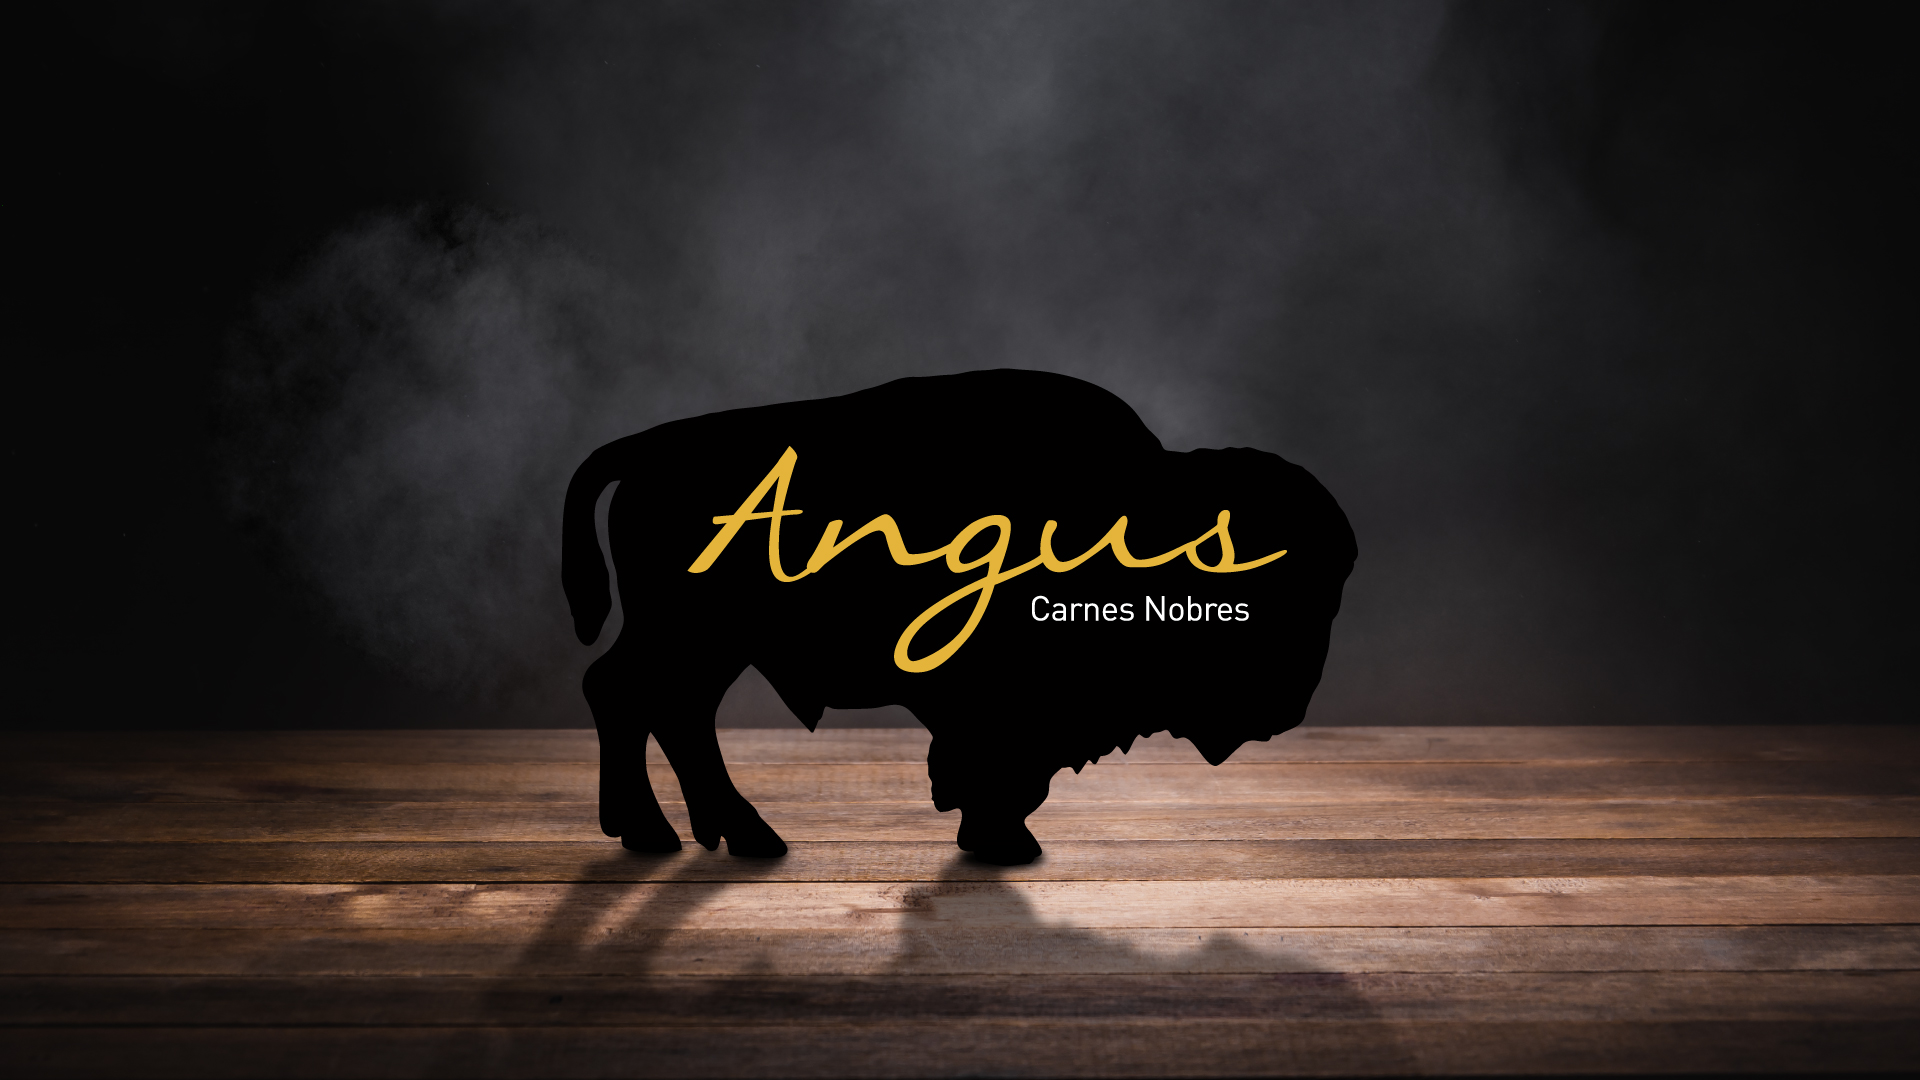
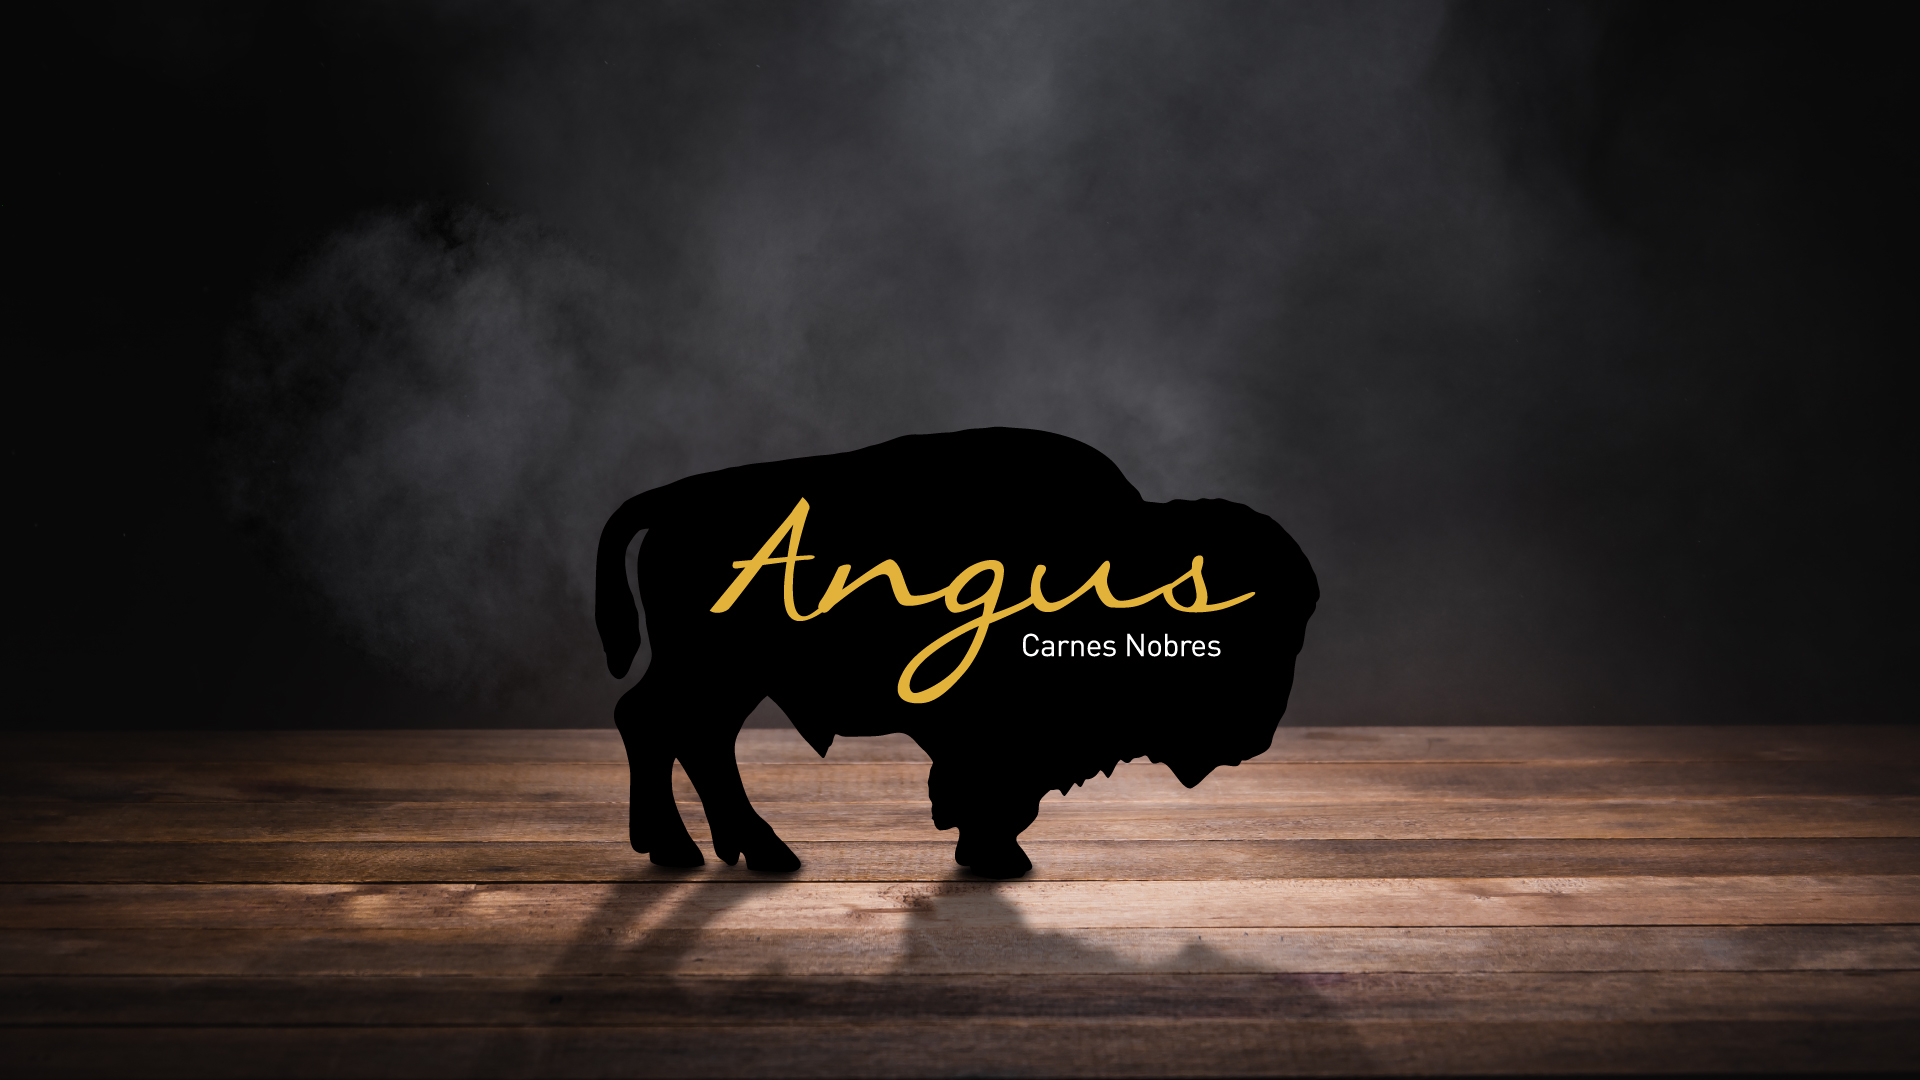
Coming Soon

Changed region(s): [[0.2812, 0.3361, 0.7188, 0.9167], [0.6562, 0.8861, 0.7188, 0.9472], [0.25, 0.8861, 0.2812, 0.9167]]

diff --git a/index.html b/index.html
@@ -142,6 +142,34 @@
                 </div>
             </section>
 
+            <!-- Bootcamper -->
+            <section id="webDev">
+                <div class="container projectInfo">
+                    <div>
+                        <h5 style="color:white;">WEB DEVELOPMENT</h5>
+                        <h2>Bootcamper</h2>
+                        <h3 style="color: #ffff00">COMING SOON</h3>
+                        <!-- <a class="btn btn-warning btn-lg" href="/bootcamper.html" role="button" aria-pressed="true">
+                            View Project
+                        </a> -->
+                    </div>
+                </div>
+            </section>
+
+            <!-- Bootcamper -->
+            <section id="identity">
+                <div class="container projectInfo">
+                    <div>
+                        <h5 style="color:white;">BRANDING & IDENTITY</h5>
+                        <h2>Angus Carnes Nobres</h2>
+                        <h3 style="color: #ffff00">COMING SOON</h3>
+                        <!-- <a class="btn btn-warning btn-lg" href="/bootcamper.html" role="button" aria-pressed="true">
+                                        View Project
+                                    </a> -->
+                    </div>
+                </div>
+            </section>
+
             <!-- INFO  -->
             <section id="contacting">
                 <div class="container bioInfo">

diff --git a/assets/css/style.css b/assets/css/style.css
@@ -288,7 +288,7 @@ a, i {
 
 .projectInfo {
     position: relative;
-    top: 20vh;
+    top: 18vh;
 }
 
 .bioInfo {
@@ -349,8 +349,25 @@ a, i {
 }
 
 #production {
-    /* background: linear-gradient(to right, rgba(23, 44, 58, 0.5) 0%, rgba(0,0,0,0) 100%), url("../images/coverFoodTruck.jpg"); */
     background: url("../images/coverFoodTruck.jpg");
+    background-attachment: fixed;
+    background-size: cover;
+    background-position: center;
+    background-repeat: no-repeat;
+    height: 100vh;
+}
+
+#webDev {
+    background: url("../images/coverBootcamper.jpg");
+    background-attachment: fixed;
+    background-size: cover;
+    background-position: center;
+    background-repeat: no-repeat;
+    height: 100vh;
+}
+
+#identity {
+    background: url("../images/coverAngus.jpg");
     background-attachment: fixed;
     background-size: cover;
     background-position: center;
